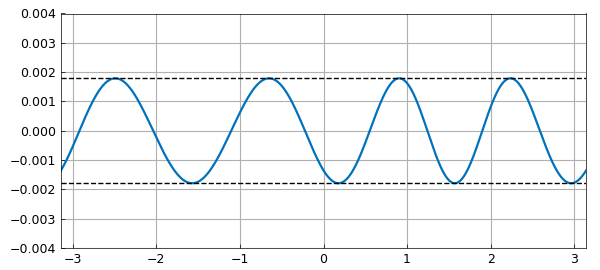
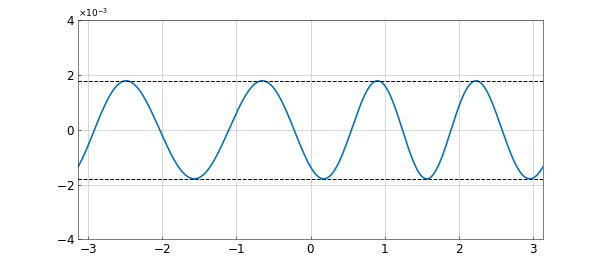
Restore source error curve and reference layout for TrigCF page

Changed region(s): [[0.03, 0.0297, 0.99, 0.9814], [0.81, 0.9517, 0.84, 0.9814], [0.66, 0.9517, 0.69, 0.9814]]

diff --git a/examples/fourier/trig_cf.py b/examples/fourier/trig_cf.py
@@ -25,7 +25,7 @@ from scipy.special import factorial
 sys.path.insert(0, os.path.join(os.path.dirname(__file__), '..', '..', 'src'))
 
 import chebfunjax as cj
-from chebfunjax.plotting import chebfun_style
+from chebfunjax.plotting import chebfun_style, matlab_plot
 from chebfunjax.plotting import save_chebfun_figure as _savefig
 
 chebfun_style()
@@ -72,17 +72,26 @@ def run():
     print("err =")
     print(f"   {err:.15f}")
 
-    xs = np.linspace(-np.pi, np.pi, 3000)
-    e = np.asarray(f(jnp.asarray(xs))) - np.asarray(r(xs))
-    fig, ax = plt.subplots(figsize=(6.5, 4))
-    ax.plot(xs, e, lw=1.6)
+    # Source page plots the Chebfun error f-p/q itself, retaining its
+    # representation instead of evaluating an independent callable grid.
+    error_curve = f - p / q
+    fig, ax = plt.subplots(figsize=(600/72.009,269/72.009))
+    matlab_plot(error_curve, ax=ax, linewidth=1.6)
     ax.grid(True)
     ax.plot([-np.pi, np.pi], [err, err], "--k", lw=1.0)
     ax.plot([-np.pi, np.pi], [-err, -err], "--k", lw=1.0)
     ax.set_ylim(-0.004, 0.004)
     fig.set_facecolor("white")
-    fig.tight_layout()
-    _savefig(fig, os.path.join(_IMG, "TrigCFExample_01.png"))
+    ax.set_position([.13,.11,.775,.815])
+    ax.set_xticks([-3,-2,-1,0,1,2,3])
+    ax.set_yticks([-.004,-.002,0,.002,.004])
+    ax.tick_params(labelsize=12)
+    from matplotlib.ticker import ScalarFormatter
+    formatter=ScalarFormatter(useMathText=True)
+    formatter.set_powerlimits((-3,-3))
+    ax.yaxis.set_major_formatter(formatter)
+    ax.grid(True, linewidth=.5)
+    _savefig(fig, os.path.join(_IMG, "TrigCFExample_01.png"), size=(600,269),dpi=72.009)
     plt.close(fig)
 
     print(f"Elapsed time is {time.time() - t0:.6f} seconds.")

diff --git a/docs/examples/fourier/TrigCFExample.md b/docs/examples/fourier/TrigCFExample.md
@@ -61,7 +61,7 @@ c =
    0.000000099606240 - 0.000000000000000i
    0.000000000000000 - 0.000000005518386i
   -0.000000000275295 + 0.000000000000000i
-   0.000000000000000 + 0.000000000012490i
+  -0.000000000000000 + 0.000000000012490i
    0.000000000000520 - 0.000000000000000i
    0.000000000000000 - 0.000000000000020i
   -0.000000000000001 - 0.000000000000000i
@@ -86,7 +86,7 @@ c =
    0.000000099606240 - 0.000000000000000i
    0.000000000000000 - 0.000000005518386i
   -0.000000000275295 + 0.000000000000000i
-   0.000000000000000 + 0.000000000012490i
+  -0.000000000000000 + 0.000000000012490i
    0.000000000000520 - 0.000000000000000i
    0.000000000000000 - 0.000000000000020i
   -0.000000000000001 - 0.000000000000000i
@@ -157,7 +157,7 @@ toc
 ```
 
 ```text
-Elapsed time is 5.436847 seconds.
+Elapsed time is 10.404085 seconds.
 ```
 
 ## References

diff --git a/HANDOFF_CODEX.md b/HANDOFF_CODEX.md
@@ -1,5 +1,15 @@
 # chebfunjax: handoff to a Codex agent (2026-10-02)
 
+## Trigonometric CF page correction (2026-10-08)
+
+Full CPU page run and figure audit passed with stable inputs, verified runtime
+origins and no surviving processes. Source f-p/q error curve and600x269
+reference layout restored. Hankel norm, CF bound and Remez error match historical
+15-digit printed values. All7 output blocks come from the run; prose/MATLAB
+blocks preserved. Elapsed output is a concurrent diagnostic, not a paired
+performance comparison. Exact pixels and antialiasing remain unqualified.
+Evidence: `/scratch/gpfs/GILLES/mg6942/tmp/chebfunjax_goal_shared_20261005/trigcf_root_acceptance_20261008.json`.
+
 ## Shared JAX spline and source spline tests (2026-10-08)
 
 68 CPU checks passed:49 spline/source/derivative controls and19 unchanged
